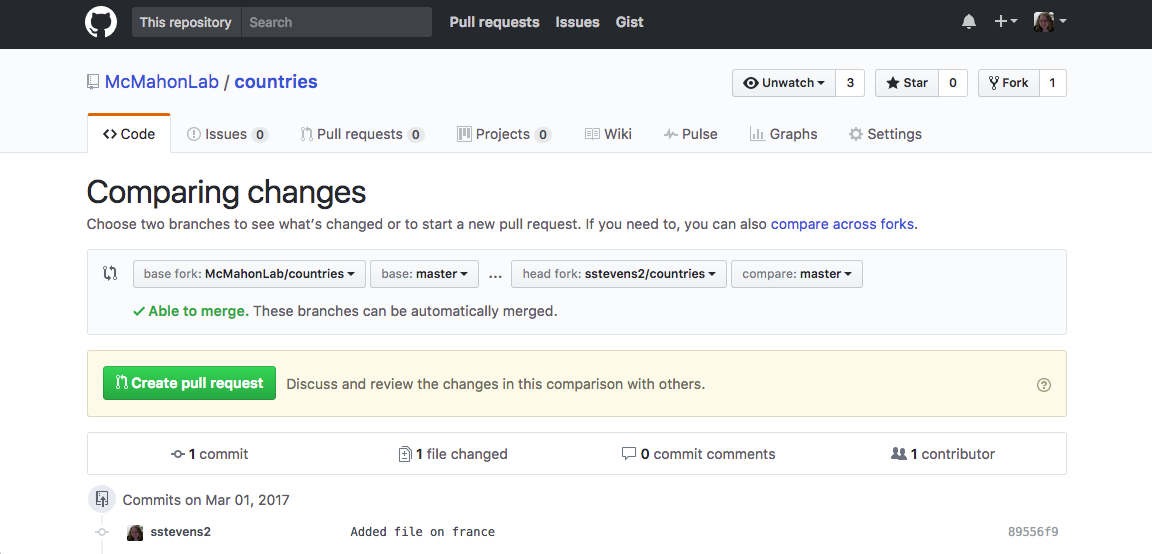
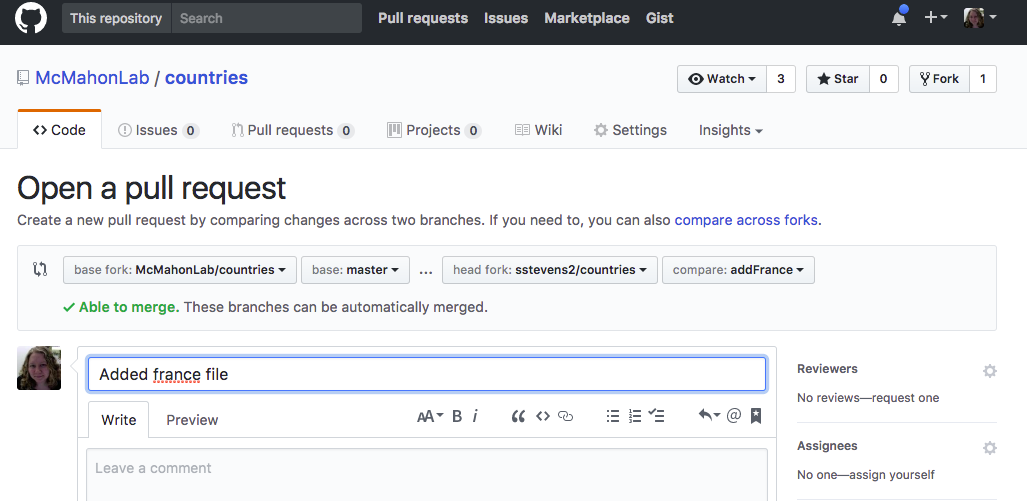
Major revisions of the pull request lesson

diff --git a/_episodes/09-pull-requests.md b/_episodes/09-pull-requests.md
@@ -1,7 +1,7 @@
 ---
 title: Pull Requests
 teaching: 60
-exercises: 1
+exercises: 15
 questions:
 - "What are pull requests for?"
 - "How can I make a pull request"
@@ -90,20 +90,32 @@ Next we will set up a connection or **remote** to the authoritative repository
 In your browser, you can go back this repo by clicking on the link that says 'forked from'
 in the upper left hand corner, under your username and repo name.
 
-Copy the web address for this repo (from the web address line or click the 'clone and download' and copy that).
+Copy the web address for this repo 
+(from the web address line or click the 'clone and download' and copy that).
 
 ![](../fig/github_screenshot_upstream_repo.png)
 
 Then back in your terminal, navigate in the cloned repo and add the remote connection.
-For this command we must give the new connection a different nickname, where our original connection is 'origin'
+For this command we must give the new connection a different nickname, 
+where our original connection is 'origin'
 this new connection will be called 'upstream'.
-You could give it a different nickname but often the authoritative is often 'upstream'
+You could give it a different nickname but 'upstream' is a common nickname for
+the authoritative repository.
 
 ~~~
 $ cd countries
-$ git remote add upstream https://github.com/McMahonLab/countries.git
+$ git remote add upstream https://github.com/INSTRUCTOR-GIVEN/countries.git
 ~~~
 {: .bash}
+
+> ## If you tried copying the command above...
+>
+> You will have to replace 'INSTRUCTOR-GIVEN' with the site your instructor
+> indicated at the beginning of this lesson. This will vary depending
+> on how your instructor set up for this lesson.
+> 
+> 
+{: .callout}
 
 At anytime you can see the remote connections your repo has using the following command:
 
@@ -115,32 +127,66 @@ $ git remote -v
 ~~~
 origin	https://github.com/USERNAME/countries.git (fetch)
 origin	https://github.com/USERNAME/countries.git (push)
-upstream	https://github.com/McMahonLab/countries.git (fetch)
-upstream	https://github.com/McMahonLab/countries.git (push)
+upstream	https://github.com/INSTRUCTOR-GIVEN/countries.git (fetch)
+upstream	https://github.com/INSTRUCTOR-GIVEN/countries.git (push)
 ~~~
 {: .output}
 
-Now that we have this setup done, which is only needed the first time, we can now suggest changes to this repo.
-Each person will add info about a specific country to the repo.
-Since you cloned the repo a template file with info on the United States has been added.
-First we will update our local version of the repo, with this change.
+Now that we have this setup done, which is only needed the first time, 
+we can now suggest changes to this repo.
+Each person will add a new file with info about a new country in it.
+
+The instructor will now add a single file to the repository containing 
+information about the the United States.
+
+Next, we will update our local version of the repo, with this change by `pull`ing down
+the changes from the 'upstream' version's master branch.
 
 ~~~
 $ git pull upstream master
 ~~~
 {: .bash}
 
-Now your local version of the repo is updated but our forked version of the repo is not yet up to date.
-Now we will update the our forked version.
+Now your local version of the repo is updated but our forked version of the 
+repo is not yet up to date.
+You can reload your fork in github and see it does not contain the new 
+`united_states.txt` file.
+Now we need to update the our forked version.
+To do so we can `push` the changes in our local version to the master branch of our fork, 
+called 'origin'.
 
 ~~~
 $ git push origin master
 ~~~
 {: .bash}
 
-Now you can add your country to repo.
-First copy `united_states.txt` and change the name to the name of your chosen country.
-Then edit the contents to reflect the info of your country.
+Now let's each add a new country to the repository.
+First let's make a new branch to work on.  This will keep our 'master' version
+in sync with the authoritative version of the repository.
+We can name our branch descriptively after the country we will be adding 
+Mine will be `addFrance` since I'll be working with France.
+Please pick a different country and shout it out (or add it to the etherpad) 
+so no one else chooses the same one.
+We will create the branch and switch into in one step 
+as we learned earlier in the branching lesson.
+Finally before we proceed to adding the new file, we will double 
+check that we are on the right branch.
+
+~~~
+$ git checkout -b addFrance
+$ git branch
+~~~
+{: .bash}
+
+~~~
+* addFrance
+  master
+~~~
+{: .output}
+
+Next we will copy `united_states.txt` and change the name to the name of our chosen country.
+Then we can use nano to edit the contents to reflect the info of your chosen country.  
+Hint: You may need to do some internet searching to fill in the information.
 
 ~~~
 $ cp united_states.txt france.txt
@@ -155,7 +201,7 @@ Capitol: Paris
 ~~~
 {: .output}
 
-Next add and commit the changes to the repo.
+Next let's add and commit the changes to the repo.
 
 ~~~
 $ git add france.txt
@@ -164,7 +210,7 @@ $ git commit -m "Added file on france"
 {: .bash}
 
 ~~~
-[master 79a312a] Added file on france
+[addFrance 79a312a] Added file on france
  1 file changed, 2 insertions(+), 2 deletions(-)
 ~~~
 {: .output}
@@ -172,9 +218,10 @@ $ git commit -m "Added file on france"
 Now we can push those changes to our forked version of the repo.
 Since we don't have permissions to the upstream repo or we want to suggest these changed be
 reviewed, if we do have permissions, we won't push directly to the upstream repo.
+Remember we need to push the name of our new branch.
 
 ~~~
-$ git push origin master
+$ git push origin addFrance
 ~~~
 {: .bash}
 
@@ -191,23 +238,40 @@ To https://github.com/USERNAME/countries.git
 {: .output}
 
 Next go to your forked github version of the repo and reload the page.
-You should see the changes in your version of the repo.
+You won't see the new file added in the list of files but you will see 
+that you recently pushed a new branch to the repository.
 
-![](../fig/github_screenshot_origin_wFrance.png)
+![](../fig/github_screenshot_origin_master_addFrance.png)
+
+If you wish to view your new branch you can click on the 'Branch' drop down menu
+and select that branch.
+
+![](../fig/github_screenshot_switch_github_branch.png)
+
+Then you should be able to view the files and commits in that branch.
+
+![](../fig/github_screenshot_origin_master_addFrance.png)
+
+Github already suspects that we are going to want to make a pull request so we can click
+the 'Compare & pull request' button to start a new pull request.
 
 Then click the 'New pull request' button.
 
 ![](../fig/github_screenshot_makingPR1.png)
 
-The base fork should be the upstream version and then the head fork should be your version.
-Then click the 'create pull request button'.
+The base fork should be the upstream/authoritative version's master branch and then 
+the head fork should be the new branch of our fork.
+You can add more information into the comment section if there is anything you'd like 
+to add for the person who reviews your suggestion.
+Then you can click the 'create pull request button' to submit the pull request.
 
 ![](../fig/github_screenshot_makingPR2.png)
 
 Now someone with privileges to the upstream repo can review it, give comments and
 suggestions, and merge it into the upstream version.
 
-Let's add a line to our file and see how/if this changes our pull request.
+Our collaborator reviewing the pull request noticed that 
+we forgot to add the largest city so let's add it and update our pull request.
 
 ~~~
 $ nano france.txt
@@ -223,99 +287,44 @@ Largest City: Paris
 {: .output}
 
 Next we will add and commit these changes.
-Then we will push them to our forked version of the repo.
+Then we can push them to our forked version of the repo.
 
 ~~~
 $ git add france.txt
 $ git commit -m "Added largest city to france file"
-$ git push origin master
+$ git push origin addFrance
 ~~~
 {: .bash}
 
 Now if we reload the pull request.  The new commit was added to that pull request.
+New commits pushed to the same branch are included in the previous pull request.
+If you want to suggest changes separately you need to make separate branches but 
+if you want the changes to be considered together you should put them in the same branch.
 
 ![](../figgithub_screenshot_after_new_commit.png)
 
-This is great for our purposes but you can imagine you may want to suggest changes that
-aren't linked to one another.
-This is one place where branches come in.
-We can put the changes in a different branch and make a separate pull request for that branch.
-Branches can also be useful when you are developing a new function in your script and you
-don't want to 'break' the current version that is published in your repo.
 
-We will use a new branch and pull request to suggest the addition of a second country.
-You can create a branch and then switch to it with the following commands:
-
-~~~
-$ git branch addItaly
-$ git checkout addItaly
-~~~
-{: .bash}
-
-~~~
-Switched to branch 'addItaly'
-~~~
-{: .output}
-
-**OR** you can create the branch and switch to it in one step
-
-~~~
-$ git checkout -b addItaly
-~~~
-{: .bash}
-
-~~~
-Switched to branch 'addItaly'
-~~~
-{: .output}
-
-> ## Add new country file and make PR
+> ## Add new country file and make additional PR
 >
-> - Copy your first country file into a new country
+> - Starting in the master branch make a new branch
+> - Copy other country file into a new country
 > - Edit the file to include info on the new country
 > - Add and commit this new file
 > - Push the new changes to github
 > > ## Solution
 > >
 > > ~~~
-> > $ cp france.txt italy.txt
+> > $ git checkout master
+> > $ git checkout -b addItaly
+> > $ cp united_states.txt italy.txt
 > > $ nano italy.txt #Add the right info into the file
 > > $ git add italy.txt
 > > $ git commit -m "Added file on Italy"
-> > $ git push origin master
+> > $ git push origin addItaly
 > > ~~~
 > > {: .bash}
 > {: .solution}
 {: .challenge}
 
-
-> ## What branches exist
->
-> To see what branches exist of which branch you are on, you can type:
-> 
-> ~~~
-> git branch
-> ~~~
-> {: .bash}
-> ~~~
->   addItaly
-> * master
-> ~~~
-> {: .output}
-{: .callout}
-
-> ## Deleting a branch
->
-> To delete you can type:
-> 
-> ~~~
-> git branch -d add Italy
-> ~~~
-> {: .bash}
-> ~~~
-> Deleted branch addItaly (was 58c24c2).
-> ~~~
-> {: .output}
-{: .callout}
 
 
